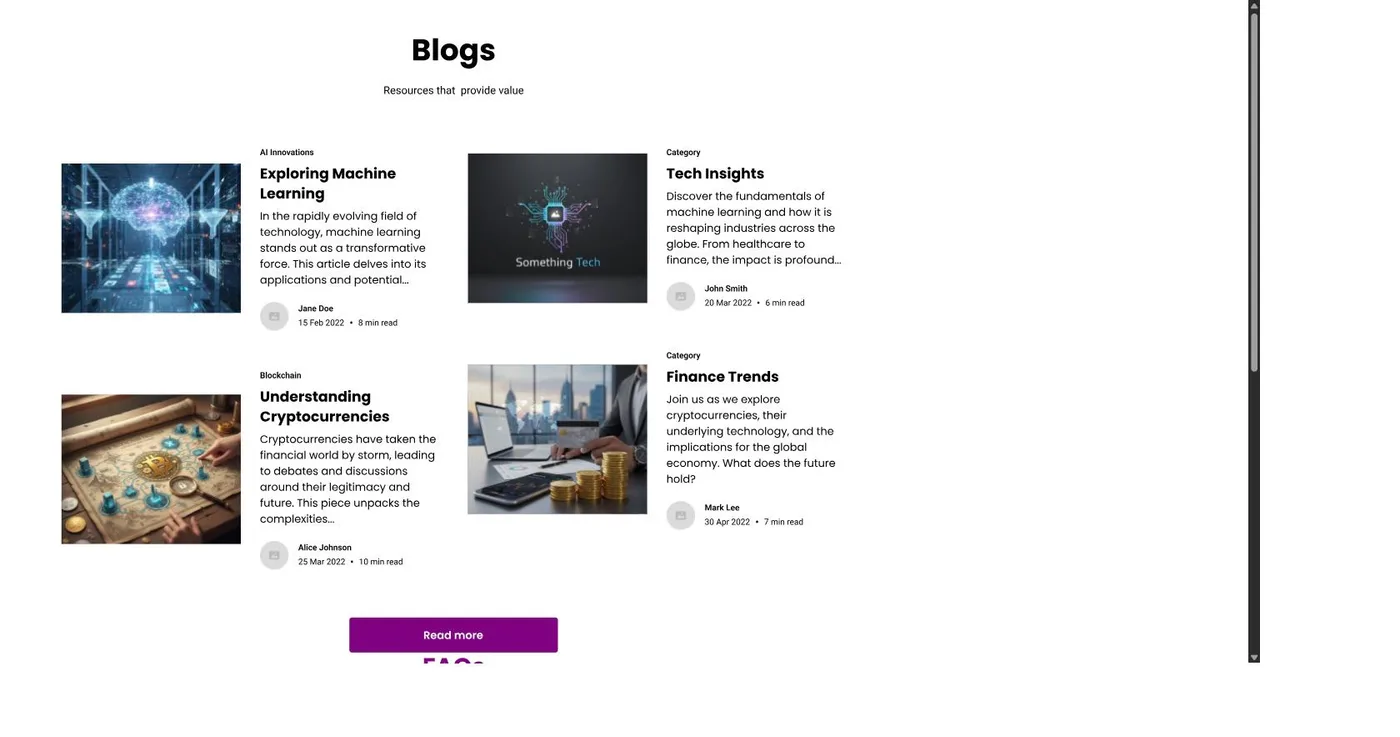
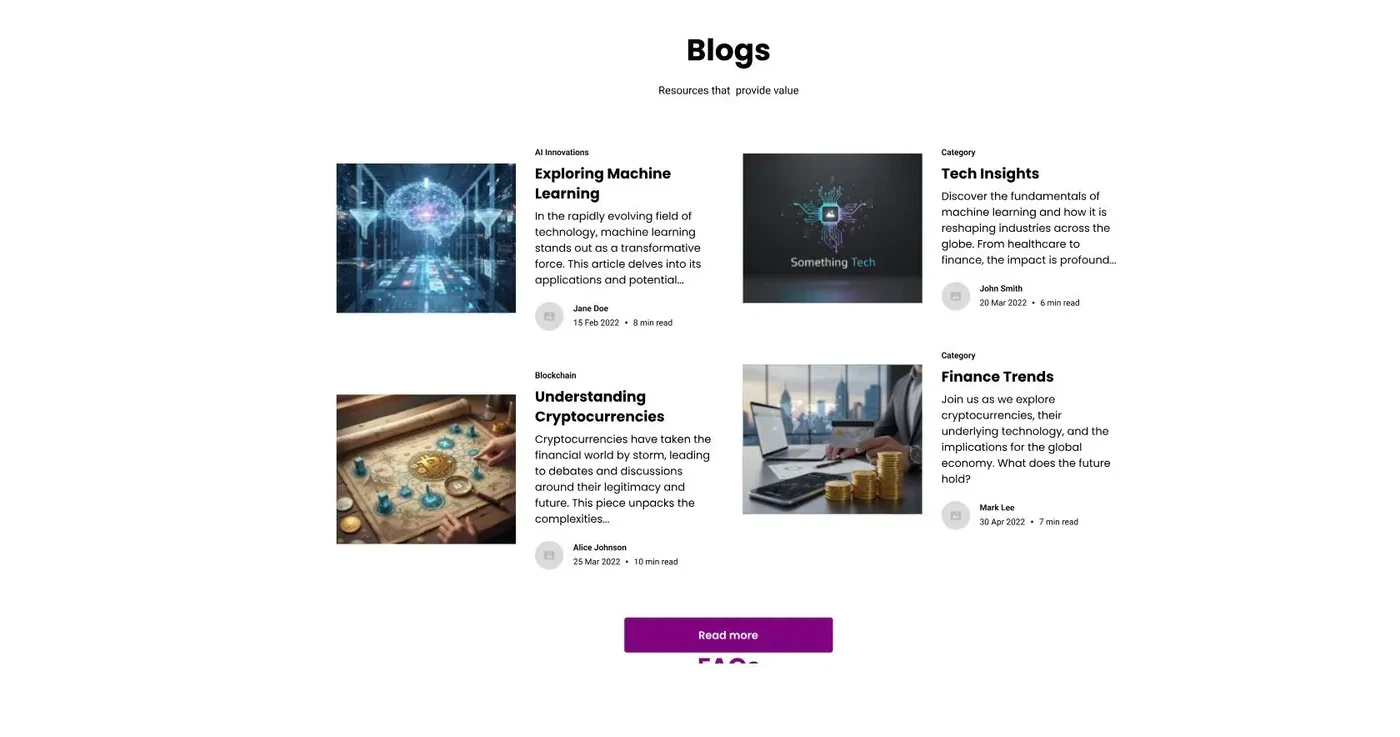
fix: content redundancies

diff --git a/lib/uiux.ts b/lib/uiux.ts
@@ -122,25 +122,14 @@ export const uiuxProjects: UiuxProject[] = [
         ],
       },
       {
-        id: 'home',
-        label: 'Home',
-        blurb: 'One home screen, three services. The errand is the choice: food, laundry, or groceries, not a category tree.',
+        id: 'categories',
+        label: 'Categories',
+        blurb: 'One home screen, three services, and a browse view for each: food, groceries, and laundry share the same skeleton, so nothing feels bolted on.',
         device: 'iphone',
         screens: [
           { src: img('velo', 'home.svg'), alt: 'Vélo home screen with three service cards' },
-          { src: img('velo', 'mez.svg'), alt: 'Vélo services screen' },
-          { src: img('velo', 'profile.svg'), alt: 'Vélo profile screen' },
-        ],
-      },
-      {
-        id: 'categories',
-        label: 'Categories',
-        blurb: 'Food, groceries, and laundry each get their own browse view built on the same skeleton, so nothing feels bolted on.',
-        device: 'iphone',
-        screens: [
           { src: img('velo', 'food-category.svg'), alt: 'Food category screen' },
           { src: img('velo', 'groceries-category.svg'), alt: 'Groceries category screen' },
-          { src: img('velo', 'add-groceries.svg'), alt: 'Add groceries to cart screen' },
           { src: img('velo', 'laundry.svg'), alt: 'Laundry service screen' },
         ],
       },
@@ -150,13 +139,14 @@ export const uiuxProjects: UiuxProject[] = [
         blurb: 'The cart got a second pass: a revamp that trimmed checkout down to the fields that actually decide the order.',
         device: 'iphone',
         screens: [
-          { src: img('velo', 'cart.svg'), alt: 'Cart for snacks and food' },
           { src: img('velo', 'revamped-cart.svg'), alt: 'Revamped cart screen' },
+          { src: img('velo', 'add-groceries.svg'), alt: 'Add groceries to cart screen' },
+          { src: img('velo', 'mez.svg'), alt: 'Vélo services screen' },
+          { src: img('velo', 'profile.svg'), alt: 'Vélo profile screen' },
         ],
       },
     ],
     extras: [
-      { kind: 'board', src: img('velo', 'cover.png'), alt: 'Three Vélo phones on a night sky', caption: 'The hero: the wordmark surviving across three screens at once.' },
       { kind: 'board', src: img('velo', 'main-board.png'), alt: 'Vélo home screen presentation board', caption: 'Home, where three services share one calm surface.' },
       { kind: 'board', src: img('velo', 'food-board.png'), alt: 'Vélo food ordering presentation board', caption: 'Food, the busiest of the three services, in context.' },
     ],
@@ -258,7 +248,6 @@ export const uiuxProjects: UiuxProject[] = [
       },
     ],
     extras: [
-      { kind: 'board', src: img('festember', 'app/board-cover.svg'), alt: 'Festember app presentation board', caption: 'The neutral app, presented on its own terms.' },
       { kind: 'board', src: img('festember', 'app/board-onboarding.svg'), alt: 'Festember app onboarding board', caption: 'Onboarding: the reusable front door.' },
       { kind: 'board', src: img('festember', 'app/board-event.svg'), alt: 'Festember app event board', caption: 'Fashionistas Gala: the real event that anchored the ticketing flow.' },
       { kind: 'board', src: img('festember', 'app/board-ticketing.svg'), alt: 'Festember app ticketing board', caption: 'Ticketing, from listing to confirmation.' },
@@ -313,7 +302,6 @@ export const uiuxProjects: UiuxProject[] = [
         label: 'Desktop',
         blurb: 'The full-size noir hero and the About section: the silhouette treatment given the real estate it was built for.',
         device: 'mac',
-        url: 'festember.com',
         screens: [
           { src: img('festember', 'web/highlights.svg'), alt: 'Festember website hero: Saga of Secrets' },
           { src: img('festember', 'web/about.svg'), alt: 'Festember website About section' },
@@ -331,15 +319,7 @@ export const uiuxProjects: UiuxProject[] = [
         ],
       },
     ],
-    extras: [
-      { kind: 'board', src: img('festember', 'web/cover.png'), alt: 'Festember website cover', caption: 'Saga of Secrets: the year’s marketing face.' },
-      {
-        kind: 'compare',
-        caption: 'The real live festember.com next to my hero, same theme, held to the same noir treatment.',
-        before: { src: img('festember', 'web/live-site.jpg'), alt: 'Live festember.com Saga of Secrets homepage', label: 'festember.com, live' },
-        after: { src: img('festember', 'web/highlights.svg'), alt: 'Redesigned Festember hero', label: 'My re-skin' },
-      },
-    ],
+    extras: [],
   },
 
   // ──────────────────────────────────────────────────────── TuteDude
@@ -404,7 +384,6 @@ export const uiuxProjects: UiuxProject[] = [
       },
     ],
     extras: [
-      { kind: 'board', src: img('tutedude', 'cover.svg'), alt: 'TuteDude redesign cover', caption: 'The redesign, refund offer leading.' },
       { kind: 'board', src: img('tutedude', 'why.svg'), alt: 'Why TuteDude four-promise value grid', caption: 'The value prop broken into four scannable promises.' },
       {
         kind: 'compare',
@@ -466,7 +445,6 @@ export const uiuxProjects: UiuxProject[] = [
       },
     ],
     extras: [
-      { kind: 'board', src: img('tradeview', 'cover.svg'), alt: 'TradeView landing board', caption: 'The landing: the whole “serious fintech” pitch in one glow.' },
       { kind: 'board', src: img('tradeview', 'event.svg'), alt: 'TradeView Tesla Stocks Drop board', caption: 'Tesla Stocks Drop: the differentiator, full size.' },
     ],
   },

diff --git a/components/ui-ux/UiuxCaseStudy.tsx b/components/ui-ux/UiuxCaseStudy.tsx
@@ -61,19 +61,18 @@ export default function UiuxCaseStudy({ project }: { project: UiuxProject }) {
             {project.title}
           </h1>
           <p className="mt-5 max-w-xl text-lg text-white/60">{project.tagline}</p>
-          <span className="mt-4 inline-block rounded-full border border-white/15 px-3 py-1 text-xs text-white/70">
-            {project.discipline}
-          </span>
+          <div className="mt-4 flex flex-wrap items-center gap-2">
+            <span className="inline-block rounded-full border border-white/15 px-3 py-1 text-xs text-white/70">
+              {project.discipline}
+            </span>
+            {project.roles.map((r) => (
+              <span key={r} className="rounded-full border border-white/10 bg-white/[0.02] px-3 py-1 text-xs text-white/50">{r}</span>
+            ))}
+          </div>
         </motion.div>
 
         <motion.div initial={reduce ? false : 'hidden'} whileInView="show" viewport={{ once: true, amount: 0.3 }} variants={fadeUp} className="mt-10 border-t border-white/10 pt-10">
           <p className="text-pretty max-w-[62ch] text-lg leading-relaxed text-white/80">{project.brief}</p>
-          <div className="mt-6 flex flex-wrap gap-2 rounded-xl border border-white/10 bg-white/[0.02] px-5 py-4">
-            {project.roles.map((r) => (
-              <span key={r} className="rounded-full border border-white/15 px-3 py-1 text-xs text-white/70">{r}</span>
-            ))}
-          </div>
-          <p className="mt-3 text-sm text-white/50">{project.role}</p>
         </motion.div>
 
         {/* The thinking — the PM layer: pain points, competitive landscape,
@@ -96,6 +95,7 @@ export default function UiuxCaseStudy({ project }: { project: UiuxProject }) {
               <p className="text-pretty mt-4 max-w-[68ch] leading-relaxed text-white/75">{project.process.approach}</p>
             </div>
 
+            {/* Outcome — hidden in production for now
             <div className="mt-8 border-t border-white/10 pt-8">
               <h3 className="text-lg font-semibold text-white/90">The outcome</h3>
               <ul className="mt-4 flex flex-wrap gap-2">
@@ -105,6 +105,7 @@ export default function UiuxCaseStudy({ project }: { project: UiuxProject }) {
               </ul>
               <p className="text-pretty mt-4 max-w-[68ch] leading-relaxed text-white/85">{project.process.outcome}</p>
             </div>
+            */}
           </motion.div>
         )}
 
@@ -132,7 +133,6 @@ export default function UiuxCaseStudy({ project }: { project: UiuxProject }) {
                 <div className="overflow-hidden rounded-2xl border border-white/10 bg-white/5">
                   <Image src={b.src} alt={b.alt} width={1600} height={1000} sizes="(max-width:768px) 92vw, 1100px" className="h-auto w-full" />
                 </div>
-                <figcaption className="mt-3 text-sm text-white/50">{b.caption}</figcaption>
               </motion.figure>
             ))}
           </div>
@@ -219,15 +219,26 @@ export default function UiuxCaseStudy({ project }: { project: UiuxProject }) {
         </div>
       )}
 
-      {/* Caption + reflection */}
-      <div className="mx-auto max-w-4xl px-6 py-20">
-        <motion.p initial={reduce ? false : { opacity: 0, y: 16 }} whileInView={{ opacity: 1, y: 0 }} viewport={{ once: true, amount: 0.5 }} transition={{ duration: 0.8, ease: EASE }} className="text-balance text-2xl font-medium leading-snug text-white/90 sm:text-3xl">
-          “{project.caption}”
-        </motion.p>
-        <motion.div initial={reduce ? false : { opacity: 0, y: 16 }} whileInView={{ opacity: 1, y: 0 }} viewport={{ once: true, amount: 0.4 }} transition={{ duration: 0.7, ease: EASE }} className="mt-12 rounded-2xl border border-white/10 bg-white/[0.03] p-8 sm:p-10">
-          <span className="text-xs uppercase tracking-[0.2em] text-white/50">{project.reflectionHeading}</span>
-          <p className="text-pretty mt-4 text-lg leading-relaxed text-white/70">{project.reflection}</p>
-        </motion.div>
+      {/* Insight — the pull-quote, standing on its own */}
+      <div className="mx-auto max-w-3xl px-6 py-24 sm:py-28">
+        <motion.figure
+          initial={reduce ? false : { opacity: 0, y: 10 }}
+          whileInView={{ opacity: 1, y: 0 }}
+          viewport={{ once: true, amount: 0.6 }}
+          transition={{ duration: 0.7, ease: EASE }}
+          className="group"
+        >
+          <span aria-hidden className="block font-serif text-6xl leading-none text-white/15 transition-colors duration-300 ease-out group-hover:text-white/35 sm:text-7xl">
+            “
+          </span>
+          <blockquote className="text-balance -mt-3 text-2xl font-medium leading-snug text-white/90 sm:text-3xl">
+            {project.caption}
+          </blockquote>
+          <span
+            aria-hidden
+            className="mt-6 block h-px w-16 origin-left scale-x-75 bg-white/25 transition-all duration-300 ease-out group-hover:w-24 group-hover:scale-x-100 group-hover:bg-white/60"
+          />
+        </motion.figure>
       </div>
 
       <ViewSimilar slug={project.slug} />
